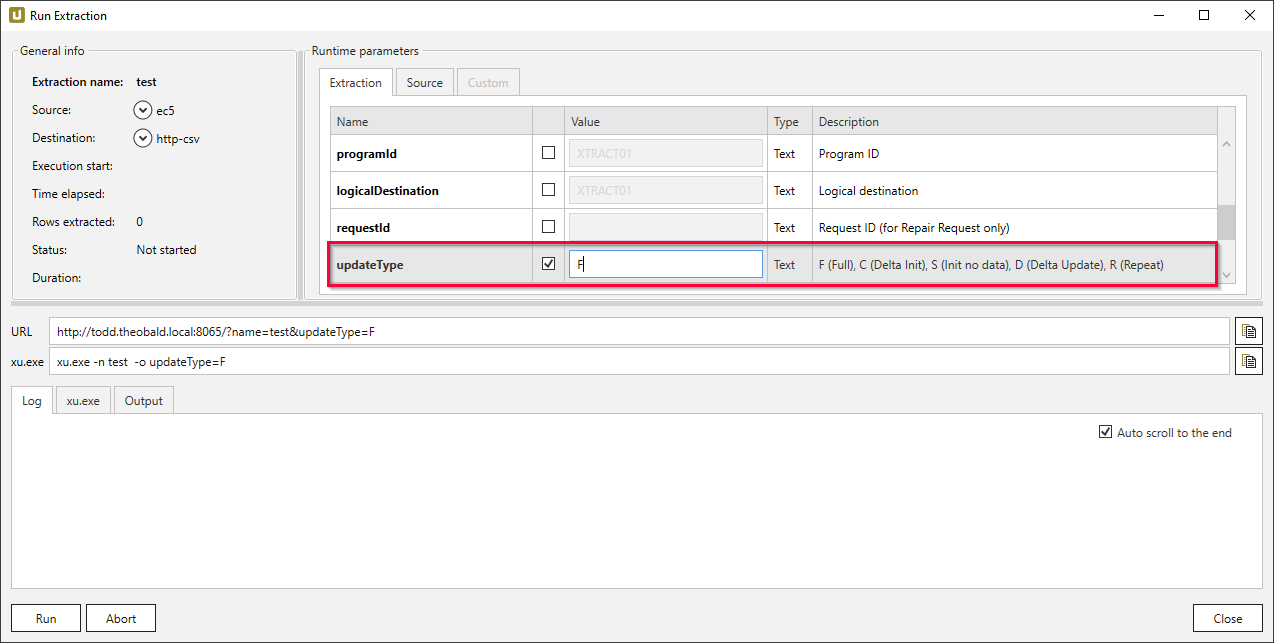
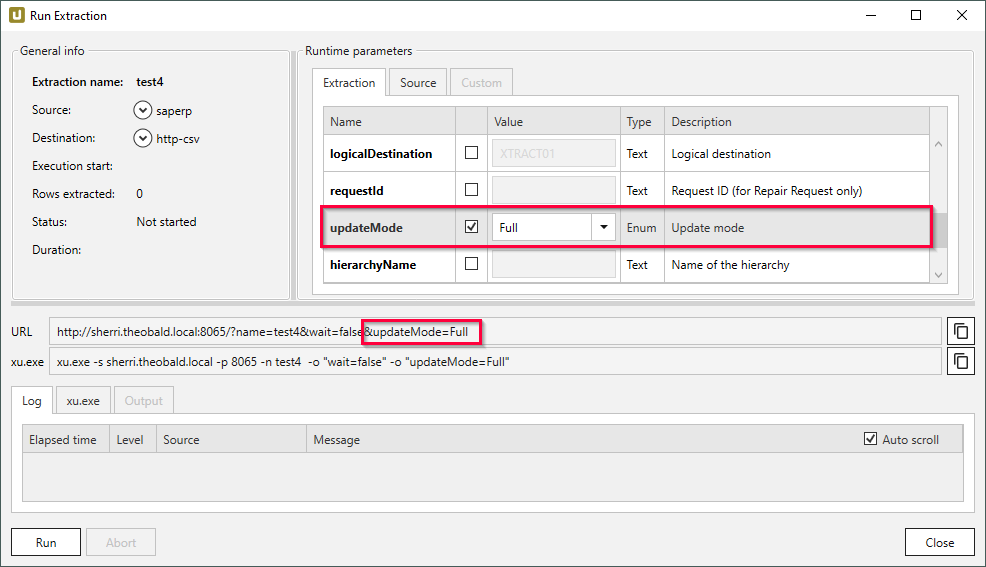
DeltaQ name of runtime parameters changed

diff --git a/_includes/_content/de/datasource-deltaq/update_mode.md b/_includes/_content/de/datasource-deltaq/update_mode.md
@@ -10,15 +10,15 @@ Wählen Sie im Hauptfenster der Komponente ein **Update Mode** aus einem Dropdow
 
 <!---    ab hier überprüfen -->
 
-| Bruchstabe| Bezeichnung | Beschreibung |
-| :------: |:--- | :--- |
-| F | Full | Extrahiert alle Daten, die den festgelegten Auswahlkriterien entsprechen.
-| D | Delta Update | Extrahiert nur Daten, die seit der letzten Delta-Anforderung im SAP-System hinzugefügt oder geändert wurden. [Initialisieren](#initialisierung-des-delta-prozesses) Sie das Delta-Verfahren, bevor Sie ein Delta-Update durchführen. Um Fehler, Abbrüche und Lücken in Ihren Daten während eines Deltalaufs zu vermeiden, führen Sie die nächste Extraktion im Updatemodus **Repeat** durch. |
-| C | Delta Initialisation | Initialisiert das Delta-Verfahren und extrahiert gleichzeitig alle Daten im *Full Load*. Wenn Sie ein Delta-Verfahren neu initialisieren, löschen Sie zunächst alle vorhandenen Inits, indem Sie in den [Extraktionseinstellungen](./extraktionseinstellungen) auf **[Maintenance]** klicken.
-| R | Repeat | Wiederholt den letzten Delta-Lauf und aktualisiert alle seit dem letzten Lauf angesammelten Deltadaten. Löscht alle Daten des letzten (erfolglosen) Delta-Updates, bevor eine Wiederholung ausgeführt wird. Sie können eine Wiederholung mehrmals ausführen.
-| S | Delta Init (without data) | Initiliaziert das Delta-Verfahren, ohne Daten aus der SAP-Datenquelle zu extrahieren. Das Ergebnis der *Delta Init* ist eine **[Maintenance]** (Wartung) auf der SAP-Seite.Wenn Sie einen Deltaprozess neu initialisieren, löschen Sie zunächst alle vorhandenen Inits, indem Sie in den [Extraktionseinstellungen] (./extraktionseinstellungen) auf **[Maintenance]** klicken.|
-| I | Non-cumulative Init | Relevant für DataSources wie *2LIS_03_BX*.  |
-| A | Activate (don't extract) | Aktiviert eine DataSource ähnlich wie das Klicken auf **[Activate]**, ist aber praktischer, wenn alle DataSources im Batch aktiviert werden. **[Activate]** ist eine Alternative zu **[Automatic Synchronization]**.  Es werden keine Daten extrahiert. |
+| Modus | Beschreibung |
+|:--- | :--- |
+| Full | Extrahiert alle Daten, die den festgelegten Auswahlkriterien entsprechen.
+| Delta (Delta Update) | Extrahiert nur Daten, die seit der letzten Delta-Anforderung im SAP-System hinzugefügt oder geändert wurden. [Initialisieren](#initialisierung-des-delta-prozesses) Sie das Delta-Verfahren, bevor Sie ein Delta-Update durchführen. Um Fehler, Abbrüche und Lücken in Ihren Daten während eines Deltalaufs zu vermeiden, führen Sie die nächste Extraktion im Updatemodus **Repeat** durch. |
+| Init (Delta Initialization) | Initialisiert das Delta-Verfahren und extrahiert gleichzeitig alle Daten im *Full Load*. Wenn Sie ein Delta-Verfahren neu initialisieren, löschen Sie zunächst alle vorhandenen Inits, indem Sie in den [Extraktionseinstellungen](./extraktionseinstellungen) auf **[Maintenance]** klicken.
+| Repeat | Wiederholt den letzten Delta-Lauf und aktualisiert alle seit dem letzten Lauf angesammelten Deltadaten. Löscht alle Daten des letzten (erfolglosen) Delta-Updates, bevor eine Wiederholung ausgeführt wird. Sie können eine Wiederholung mehrmals ausführen.
+| InitNoData (Delta Init without data) | Initiliaziert das Delta-Verfahren, ohne Daten aus der SAP-Datenquelle zu extrahieren. Das Ergebnis der *Delta Init* ist eine **[Maintenance]** (Wartung) auf der SAP-Seite.Wenn Sie einen Deltaprozess neu initialisieren, löschen Sie zunächst alle vorhandenen Inits, indem Sie in den [Extraktionseinstellungen] (./extraktionseinstellungen) auf **[Maintenance]** klicken.|
+| InitNoncumulative (Non-cumulative init) | Relevant für DataSources wie *2LIS_03_BX*.  |
+| Activate (Activate don't extract) | Aktiviert eine DataSource ähnlich wie das Klicken auf **[Activate]**, ist aber praktischer, wenn alle DataSources im Batch aktiviert werden. **[Activate]** ist eine Alternative zu **[Automatic Synchronization]**.  Es werden keine Daten extrahiert. |
 
 
 {% if page.product == "xtract-universal" %}

diff --git a/_includes/_content/en/datasource-deltaq/update-mode.md b/_includes/_content/en/datasource-deltaq/update-mode.md
@@ -9,15 +9,15 @@ In the main window of the component select an **Update Mode** from the drop-down
 
 **Update Mode** offers the following options:
 
-| Letter |  Mode   | Description |
-| :------: |:--- | :--- |
-| F | Full  | Extracts all data that match the set selection criteria.|
-| D | Delta Update | Only extracts data added or changed on the SAP system since the last delta request. [Initialize the delta process](#initializing-a-delta-process) before running a delta update. To prevent errors, aborts and gaps in your data during a delta run, run the next extraction in the update mode **Repeat**. |
-| C | Delta Initialization | Extracts all data as full load and initializes the delta process. When re-initializing a delta process, first delete any existing Inits by clicking **[Maintenance]** in the [extraction settings](./extraction-settings).|
-| R | Repeat  | Repeats the last delta run and updates and any delta data accumulated since the last run. Deletes any data from the last (unsuccessful) delta update before running a repeat. You can run a repeat multiple times.|
-| S | Delta Init (without data)   | Initializes the delta process without extracting any data from the SAP DataSources. The result of the *Delta Init* is a **[Maintenance]** on the SAP side. When re-initializing a delta process, first delete any existing Inits by clicking **[Maintenance]** in the [extraction settings](./extraction-settings).|
-| I | Non-cumulative Init    |  Relevant for DataSources like *2LIS_03_BX*.  |
-| A | Activate (don't extract)  | Activates a DataSource similar to clicking **[Activate]**, but it is more practical when activating DataSources in a batch. No data is extracted. |
+|  Mode   | Description |
+|:--- | :--- |
+| Full  | Extracts all data that match the set selection criteria.|
+| Delta (Delta Update)| Only extracts data added or changed on the SAP system since the last delta request. [Initialize the delta process](#initializing-a-delta-process) before running a delta update. To prevent errors, aborts and gaps in your data during a delta run, run the next extraction in the update mode **Repeat**. |
+| Init (Delta Initialization)| Extracts all data as full load and initializes the delta process. When re-initializing a delta process, first delete any existing Inits by clicking **[Maintenance]** in the [extraction settings](./extraction-settings).|
+| Repeat  | Repeats the last delta run and updates and any delta data accumulated since the last run. Deletes any data from the last (unsuccessful) delta update before running a repeat. You can run a repeat multiple times.|
+| InitNoData (Delta Init without data)| Initializes the delta process without extracting any data from the SAP DataSources. The result of the *Delta Init* is a **[Maintenance]** on the SAP side. When re-initializing a delta process, first delete any existing Inits by clicking **[Maintenance]** in the [extraction settings](./extraction-settings).|
+| InitNoncumulative (Non-cumulative init)|  Relevant for DataSources like *2LIS_03_BX*.  |
+| Activate (Activate don't extract)| Activates a DataSource similar to clicking **[Activate]**, but it is more practical when activating DataSources in a batch. No data is extracted. |
 
 {% if page.product == "xtract-universal" %}
 **Update mode** can be set dynamically at runtime using the **updateType** extraction parameter, see [Run an Extraction](../execute-and-automate-extractions/extraction-parameters#run-an-extraction).<br>
